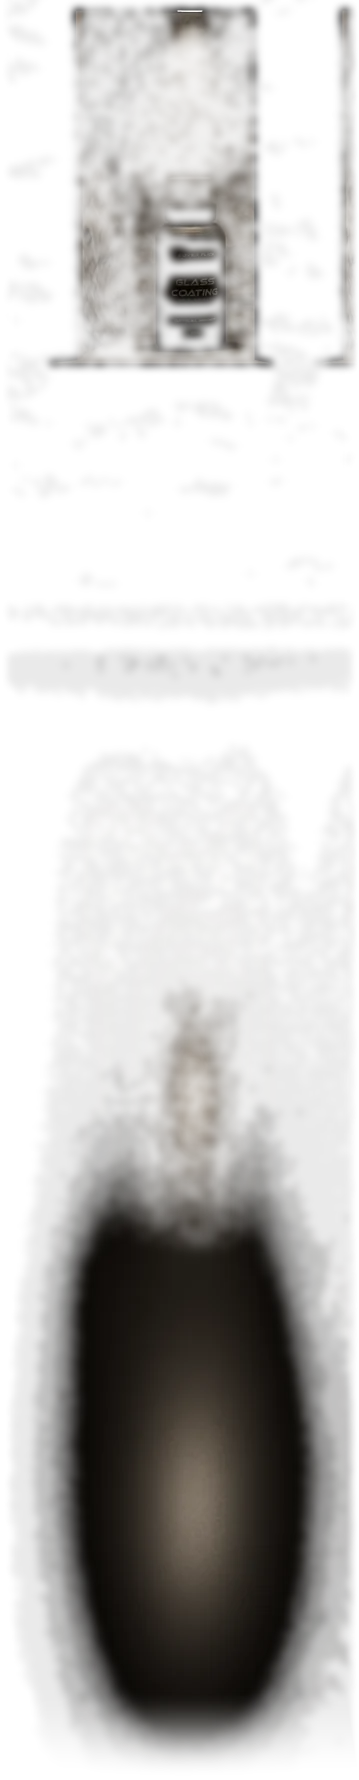
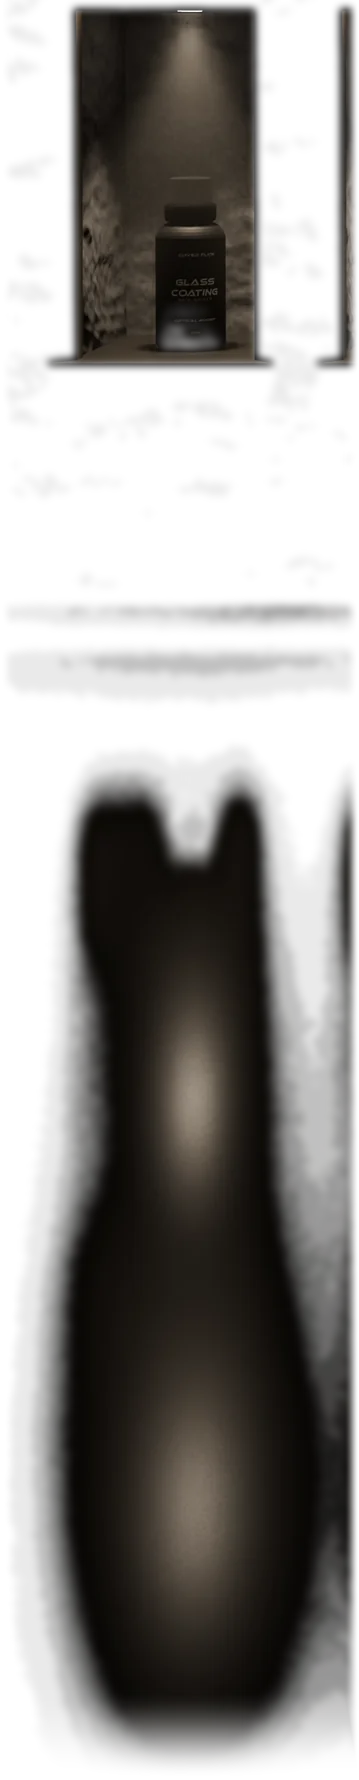
Add files via upload

diff --git a/showcase/index.html b/showcase/index.html
@@ -26,7 +26,7 @@
   #panel h1 { font-size: clamp(36px, 4.4vw, 64px); font-weight: 800; line-height: 1; letter-spacing: -.01em; }
   #panel h2 { margin-top: 14px; font-size: 13px; font-weight: 400; letter-spacing: .22em; color: #bdb5cb; text-transform: uppercase; }
   #panel .tagline { margin-top: 30px; font-size: 14px; font-weight: 600; letter-spacing: .12em; }
-  #panel p { margin-top: 14px; font: 400 14px/1.8 "Noto Sans KR", sans-serif; color: #d9d3e3; white-space: pre-line; }
+  #panel p { margin-top: 14px; font: 400 14px/1.8 "Noto Sans KR", sans-serif; color: #d9d3e3; white-space: pre-line; word-break: keep-all; }
   #panel .more { display: inline-flex; align-items: center; gap: 10px; margin-top: 26px; padding: 12px 26px; border-radius: 999px; border: 1px solid rgba(255,255,255,.18); background: rgba(255,255,255,.06); color: #f4f2f7; font: 500 13px "Noto Sans KR", sans-serif; text-decoration: none; letter-spacing: .04em; transition: background .25s, border-color .25s; }
   #panel .more:hover { background: rgba(179,140,255,.18); border-color: rgba(179,140,255,.6); }
   #panel .more span { transition: transform .25s; } #panel .more:hover span { transform: translateX(4px); }
@@ -47,7 +47,7 @@
     #shade { background: linear-gradient(180deg, rgba(0,0,0,0) 61%, rgba(0,0,0,.85) 70%, #000 80%); }   /* starts below the niche */
     #panel { left: 0; right: 0; top: auto; bottom: 0; width: auto; transform: translateY(24px); padding: 0 26px calc(30px + env(safe-area-inset-bottom)); }
     body.focused.arrived #panel { transform: translateY(0); }
-    #panel h1 { font-size: 38px; } #panel .tagline { margin-top: 16px; font-size: 13px; } #panel dl { display: none; } #panel p { font-size: 12.5px; line-height: 1.65; margin-top: 10px; } #panel .more { margin-top: 14px; padding: 9px 20px; font-size: 12px; } #panel h2 { margin-top: 8px; } #panel .line { margin-bottom: 8px; }
+    #panel h1 { font-size: 38px; } #panel .tagline { margin-top: 16px; font-size: 13px; } #panel dl { display: none; } #panel p { white-space: normal; font-size: 12.5px; line-height: 1.65; margin-top: 10px; } #panel .more { margin-top: 14px; padding: 9px 20px; font-size: 12px; } #panel h2 { margin-top: 8px; } #panel .line { margin-bottom: 8px; }
     #back { top: 16px; right: 16px; padding: 8px 14px; font-size: 12px; }
     #nav { left: 12px; right: 12px; bottom: auto; top: 30%; justify-content: space-between; }
   }
@@ -107,7 +107,7 @@
 <div id="nav"><button class="btn" id="prev" aria-label="이전 제품">‹</button><button class="btn" id="next" aria-label="다음 제품">›</button></div>
 <div id="hint">제품에 마우스를 올리거나 클릭해 보세요</div>
 <script>
-const A = {"pc": {"res": [5760, 3240], "base": "img/pc_base.webp", "prods": [{"key": "2X", "rect": [0.2265990674495697, 0.41502809524536133, 0.2839204967021942, 0.5680767297744751], "layers": [{"src": "img/pc_ref_2X.webp", "crop": [0.21458333333333332, 0.5873456790123457, 0.29583333333333334, 0.9996913580246913]}, {"src": "img/pc_hov_2X.webp", "crop": [0.21458333333333332, 0.39598765432098765, 0.29583333333333334, 0.5996913580246913]}, {"src": "img/pc_hi_2X.webp", "crop": [0.21458333333333332, 0.39580246913580247, 0.29583333333333334, 0.5874074074074074], "hi": 1}]}, {"key": "3X", "rect": [0.31279444694519043, 0.41502809524536133, 0.36574944853782654, 0.5680767297744751], "layers": [{"src": "img/pc_ref_3X.webp", "crop": [0.30069444444444443, 0.5873456790123457, 0.3776041666666667, 0.9996913580246913]}, {"src": "img/pc_hov_3X.webp", "crop": [0.30069444444444443, 0.39598765432098765, 0.3776041666666667, 0.5996913580246913]}, {"src": "img/pc_hi_3X.webp", "crop": [0.3007638888888889, 0.39580246913580247, 0.3776388888888889, 0.5874074074074074], "hi": 1}]}, {"key": "GlassCoating", "rect": [0.39898979663848877, 0.41502809524536133, 0.4475783407688141, 0.5680767297744751], "layers": [{"src": "img/pc_ref_GlassCoating.webp", "crop": [0.38697916666666665, 0.5873456790123457, 0.4595486111111111, 0.9996913580246913]}, {"src": "img/pc_hov_GlassCoating.webp", "crop": [0.38697916666666665, 0.39598765432098765, 0.4595486111111111, 0.5996913580246913]}, {"src": "img/pc_hi_GlassCoating.webp", "crop": [0.3869444444444444, 0.39580246913580247, 0.45958333333333334, 0.5874074074074074], "hi": 1}]}, {"key": "LeatherCoating", "rect": [0.4851851761341095, 0.41502809524536133, 0.5309764742851257, 0.5680767297744751], "layers": [{"src": "img/pc_ref_LeatherCoating.webp", "crop": [0.4730902777777778, 0.5873456790123457, 0.5428819444444445, 0.9996913580246913]}, {"src": "img/pc_hov_LeatherCoating.webp", "crop": [0.4730902777777778, 0.39598765432098765, 0.5428819444444445, 0.5996913580246913]}, {"src": "img/pc_hi_LeatherCoating.webp", "crop": [0.4731944444444444, 0.39580246913580247, 0.5429861111111111, 0.5874074074074074], "hi": 1}]}, {"key": "Glow", "rect": [0.5655302405357361, 0.2709733843803406, 0.6524820923805237, 0.5680767297744751], "layers": [{"src": "img/pc_ref_Glow.webp", "crop": [0.55, 0.5987654320987654, 0.66875, 1.0]}, {"src": "img/pc_hov_Glow.webp", "crop": [0.55, 0.2518518518518518, 0.66875, 0.6111111111111112]}]}, {"key": "Assemble", "rect": [0.6768079400062561, 0.2709733843803406, 0.7739279866218567, 0.5680767297744751], "layers": [{"src": "img/pc_ref_Assemble.webp", "crop": [0.6647569444444444, 0.5873456790123457, 0.7857638888888889, 0.9996913580246913]}, {"src": "img/pc_hov_Assemble.webp", "crop": [0.6647569444444444, 0.2518518518518518, 0.7857638888888889, 0.5996913580246913]}]}]}, "m": {"res": [3120, 6752], "base": "img/m_base.webp", "prods": [{"key": "2X", "rect": [0.06840715557336807, 0.345639705657959, 0.21518738567829132, 0.4541202187538147], "layers": [{"src": "img/m_ref_2X.webp", "crop": [0.023717948717948717, 0.4727488151658768, 0.25416666666666665, 1.0]}, {"src": "img/m_hov_2X.webp", "crop": [0.023717948717948717, 0.3335308056872038, 0.25416666666666665, 0.4786729857819905]}, {"src": "img/m_hi_2X.webp", "crop": [0.023974358974358973, 0.3334123222748815, 0.25435897435897437, 0.4728080568720379], "hi": 1}]}, {"key": "3X", "rect": [0.23961754143238068, 0.345639705657959, 0.3723253905773163, 0.4541202187538147], "layers": [{"src": "img/m_ref_3X.webp", "crop": [0.1967948717948718, 0.4727488151658768, 0.4112179487179487, 1.0]}, {"src": "img/m_hov_3X.webp", "crop": [0.1967948717948718, 0.3335308056872038, 0.4112179487179487, 0.4786729857819905]}, {"src": "img/m_hi_3X.webp", "crop": [0.1967948717948718, 0.3334123222748815, 0.4114102564102564, 0.4728080568720379], "hi": 1}]}, {"key": "GlassCoating", "rect": [0.06962719559669495, 0.4742547273635864, 0.21592649817466736, 0.5792432129383087], "layers": [{"src": "img/m_ref_GlassCoating.webp", "crop": [0.025, 0.5996741706161137, 0.2548076923076923, 0.9998518957345972]}, {"src": "img/m_hov_GlassCoating.webp", "crop": [0.025, 0.4622334123222749, 0.2548076923076923, 0.6055983412322274]}, {"src": "img/m_hi_GlassCoating.webp", "crop": [0.025256410256410258, 0.4622037914691943, 0.255, 0.5997037914691943], "hi": 1}]}, {"key": "LeatherCoating", "rect": [0.24035359919071198, 0.4742547273635864, 0.3726567029953003, 0.5792432129383087], "layers": [{"src": "img/m_ref_LeatherCoating.webp", "crop": [0.19743589743589743, 0.5996741706161137, 0.4115384615384615, 0.9998518957345972]}, {"src": "img/m_hov_LeatherCoating.webp", "crop": [0.19743589743589743, 0.4622334123222749, 0.4115384615384615, 0.6055983412322274]}, {"src": "img/m_hi_LeatherCoating.webp", "crop": [0.1976923076923077, 0.4622037914691943, 0.4117948717948718, 0.5997037914691943], "hi": 1}]}, {"key": "Glow", "rect": [0.4322735369205475, 0.3753848075866699, 0.6461465954780579, 0.5792432129383087], "layers": [{"src": "img/m_ref_Glow.webp", "crop": [0.39166666666666666, 0.5996741706161137, 0.6871794871794872, 0.9998518957345972]}, {"src": "img/m_hov_Glow.webp", "crop": [0.39166666666666666, 0.36329976303317535, 0.6871794871794872, 0.6055983412322274]}]}, {"key": "Assemble", "rect": [0.6886341571807861, 0.3753848075866699, 0.9313107132911682, 0.5792432129383087], "layers": [{"src": "img/m_ref_Assemble.webp", "crop": [0.65, 0.5996741706161137, 0.975, 0.9998518957345972]}, {"src": "img/m_hov_Assemble.webp", "crop": [0.65, 0.36329976303317535, 0.975, 0.6055983412322274]}]}]}};
+const A = {"pc": {"res": [5760, 3240], "base": "img/pc_base.webp", "prods": [{"key": "2X", "rect": [0.2265990674495697, 0.41502809524536133, 0.2839204967021942, 0.5680767297744751], "layers": [{"src": "img/pc_ref_2X.webp", "crop": [0.21458333333333332, 0.5873456790123457, 0.29583333333333334, 0.9996913580246913]}, {"src": "img/pc_hov_2X.webp", "crop": [0.21458333333333332, 0.39598765432098765, 0.29583333333333334, 0.5996913580246913]}, {"src": "img/pc_hi_2X.webp", "crop": [0.21458333333333332, 0.39580246913580247, 0.29583333333333334, 0.5874074074074074], "hi": 1}]}, {"key": "3X", "rect": [0.31279444694519043, 0.41502809524536133, 0.36574944853782654, 0.5680767297744751], "layers": [{"src": "img/pc_ref_3X.webp", "crop": [0.30069444444444443, 0.5873456790123457, 0.3776041666666667, 0.9996913580246913]}, {"src": "img/pc_hov_3X.webp", "crop": [0.30069444444444443, 0.39598765432098765, 0.3776041666666667, 0.5996913580246913]}, {"src": "img/pc_hi_3X.webp", "crop": [0.3007638888888889, 0.39580246913580247, 0.3776388888888889, 0.5874074074074074], "hi": 1}]}, {"key": "GlassCoating", "rect": [0.39898979663848877, 0.41502809524536133, 0.4475783407688141, 0.5680767297744751], "layers": [{"src": "img/pc_ref_GlassCoating.webp", "crop": [0.38697916666666665, 0.5873456790123457, 0.4595486111111111, 0.9996913580246913]}, {"src": "img/pc_hov_GlassCoating.webp", "crop": [0.38697916666666665, 0.39598765432098765, 0.4595486111111111, 0.5996913580246913]}, {"src": "img/pc_hi_GlassCoating.webp", "crop": [0.3869444444444444, 0.39580246913580247, 0.45958333333333334, 0.5874074074074074], "hi": 1}]}, {"key": "LeatherCoating", "rect": [0.4851851761341095, 0.41502809524536133, 0.5309764742851257, 0.5680767297744751], "layers": [{"src": "img/pc_ref_LeatherCoating.webp", "crop": [0.4730902777777778, 0.5873456790123457, 0.5428819444444445, 0.9996913580246913]}, {"src": "img/pc_hov_LeatherCoating.webp", "crop": [0.4730902777777778, 0.39598765432098765, 0.5428819444444445, 0.5996913580246913]}, {"src": "img/pc_hi_LeatherCoating.webp", "crop": [0.4731944444444444, 0.39580246913580247, 0.5429861111111111, 0.5874074074074074], "hi": 1}]}, {"key": "Glow", "rect": [0.5655302405357361, 0.2709733843803406, 0.6524820923805237, 0.5680767297744751], "layers": [{"src": "img/pc_ref_Glow.webp", "crop": [0.55, 0.5987654320987654, 0.66875, 1.0]}, {"src": "img/pc_hov_Glow.webp", "crop": [0.55, 0.2518518518518518, 0.66875, 0.6111111111111112]}]}, {"key": "Assemble", "rect": [0.6768079400062561, 0.2709733843803406, 0.7739279866218567, 0.5680767297744751], "layers": [{"src": "img/pc_ref_Assemble.webp", "crop": [0.6647569444444444, 0.5873456790123457, 0.7857638888888889, 0.9996913580246913]}, {"src": "img/pc_hov_Assemble.webp", "crop": [0.6647569444444444, 0.2518518518518518, 0.7857638888888889, 0.5996913580246913]}]}], "dim": "img/pc_dim.webp"}, "m": {"res": [3120, 6752], "base": "img/m_base.webp", "prods": [{"key": "2X", "rect": [0.06840715557336807, 0.345639705657959, 0.21518738567829132, 0.4541202187538147], "layers": [{"src": "img/m_ref_2X.webp", "crop": [0.023717948717948717, 0.4727488151658768, 0.25416666666666665, 1.0]}, {"src": "img/m_hov_2X.webp", "crop": [0.023717948717948717, 0.3335308056872038, 0.25416666666666665, 0.4786729857819905]}, {"src": "img/m_hi_2X.webp", "crop": [0.023974358974358973, 0.3334123222748815, 0.25435897435897437, 0.4728080568720379], "hi": 1}]}, {"key": "3X", "rect": [0.23961754143238068, 0.345639705657959, 0.3723253905773163, 0.4541202187538147], "layers": [{"src": "img/m_ref_3X.webp", "crop": [0.1967948717948718, 0.4727488151658768, 0.4112179487179487, 1.0]}, {"src": "img/m_hov_3X.webp", "crop": [0.1967948717948718, 0.3335308056872038, 0.4112179487179487, 0.4786729857819905]}, {"src": "img/m_hi_3X.webp", "crop": [0.1967948717948718, 0.3334123222748815, 0.4114102564102564, 0.4728080568720379], "hi": 1}]}, {"key": "GlassCoating", "rect": [0.06962719559669495, 0.4742547273635864, 0.21592649817466736, 0.5792432129383087], "layers": [{"src": "img/m_ref_GlassCoating.webp", "crop": [0.025, 0.5996741706161137, 0.2548076923076923, 0.9998518957345972]}, {"src": "img/m_hov_GlassCoating.webp", "crop": [0.025, 0.4622334123222749, 0.2548076923076923, 0.6055983412322274]}, {"src": "img/m_hi_GlassCoating.webp", "crop": [0.025256410256410258, 0.4622037914691943, 0.255, 0.5997037914691943], "hi": 1}]}, {"key": "LeatherCoating", "rect": [0.24035359919071198, 0.4742547273635864, 0.3726567029953003, 0.5792432129383087], "layers": [{"src": "img/m_ref_LeatherCoating.webp", "crop": [0.19743589743589743, 0.5996741706161137, 0.4115384615384615, 0.9998518957345972]}, {"src": "img/m_hov_LeatherCoating.webp", "crop": [0.19743589743589743, 0.4622334123222749, 0.4115384615384615, 0.6055983412322274]}, {"src": "img/m_hi_LeatherCoating.webp", "crop": [0.1976923076923077, 0.4622037914691943, 0.4117948717948718, 0.5997037914691943], "hi": 1}]}, {"key": "Glow", "rect": [0.4322735369205475, 0.3753848075866699, 0.6461465954780579, 0.5792432129383087], "layers": [{"src": "img/m_ref_Glow.webp", "crop": [0.39166666666666666, 0.5996741706161137, 0.6871794871794872, 0.9998518957345972]}, {"src": "img/m_hov_Glow.webp", "crop": [0.39166666666666666, 0.36329976303317535, 0.6871794871794872, 0.6055983412322274]}]}, {"key": "Assemble", "rect": [0.6886341571807861, 0.3753848075866699, 0.9313107132911682, 0.5792432129383087], "layers": [{"src": "img/m_ref_Assemble.webp", "crop": [0.65, 0.5996741706161137, 0.975, 0.9998518957345972]}, {"src": "img/m_hov_Assemble.webp", "crop": [0.65, 0.36329976303317535, 0.975, 0.6055983412322274]}]}], "dim": "img/m_dim.webp"}};
 const INFO = {
   '2X': { line: 'CERAMIC COATING', name: '2X', sub: 'Ceramic Coating', tag: 'SUPER HYBRID', vol: '30mL', type: '세라믹 코팅제' },
   '3X': { line: 'CERAMIC COATING', name: 'NANO 3X', sub: 'Ceramic Coating', tag: 'NANO SUPER HYBRID', vol: '30mL', type: '세라믹 코팅제' },
@@ -122,7 +122,8 @@ const cv = $('cv'), ctx = cv.getContext('2d');
 const isMobile = () => innerWidth <= 760 || innerHeight > innerWidth * 1.15;
 
 let S = null;                                  // current scene set (pc or m)
-const lv = { pc: null, m: null };              // mip levels per scene
+const lv = { pc: null, m: null }, lvd = { pc: null, m: null };   // base / dimmed base (all downlights at half)
+let dimA = 0;              // mip levels per scene
 function load(src) { return new Promise(r => { const i = new Image(); i.onload = () => r(i); i.src = src; }); }
 async function mips(img, minW) {
   try { if (img.decode) await img.decode(); } catch (e) {}
@@ -150,7 +151,7 @@ function focusView(i) {
   const rw = (r[2] - r[0]) * W, rh = (r[3] - r[1]) * H, rcx = (r[0] + r[2]) / 2 * W, rcy = (r[1] + r[3]) / 2 * H;
   let s, sx, sy;
   if (isMobile()) {   // niche fills the space above the text panel, whatever the phone height / text length
-    const top = 66, ph = $('panel').offsetHeight || innerHeight * .4, avail = Math.max(160, innerHeight - ph - top - 14);
+    const top = 66, ph = panelHeight(S.prods[i]) || innerHeight * .4, avail = Math.max(160, innerHeight - ph - top - 14);
     s = Math.min(avail / rh, innerWidth * .78 / rw); sx = innerWidth / 2; sy = top + avail / 2;
     const pt = (innerHeight - ph) / innerHeight * 100;
     $('shade').style.background = `linear-gradient(180deg, rgba(0,0,0,0) ${pt - 6}%, rgba(0,0,0,.85) ${pt + 3}%, #000 ${pt + 12}%)`;
@@ -174,7 +175,13 @@ function draw() {
   if (cv.width !== Math.round(W * dpr) || cv.height !== Math.round(H * dpr)) { cv.width = Math.round(W * dpr); cv.height = Math.round(H * dpr); }
   ctx.setTransform(dpr, 0, 0, dpr, 0, 0); ctx.fillStyle = '#000'; ctx.fillRect(0, 0, W, H);
   ctx.imageSmoothingEnabled = true; ctx.imageSmoothingQuality = 'high';
-  const levels = lv[S.id], k0 = levels[0].width / S.res[0], need = view.s * dpr / k0;   // screen px per base px
+  drawBase(lv[S.id], 1, dpr, W, H);
+  if (dimA > .003 && lvd[S.id]) drawBase(lvd[S.id], dimA, dpr, W, H);   // other niches at half light while a product is selected
+  const x0 = view.cx - W / 2 / view.s, y0 = view.cy - H / 2 / view.s;
+  drawRest(dpr, W, H, x0, y0);
+}
+function drawBase(levels, a, dpr, W, H) {
+  const k0 = levels[0].width / S.res[0], need = view.s * dpr / k0;   // screen px per base px
   let L = 0; while (L + 1 < levels.length && need <= 1 / Math.pow(2, L + 1) * 1.05) L++;
   const img = levels[L], f = img.width / S.res[0];
   // visible window in full-res coords
@@ -182,8 +189,12 @@ function draw() {
   { // Safari draws nothing when the source rectangle leaves the image, so clip it to the image first
     const sx = x0 * f, sy = y0 * f, sw = W / view.s * f, sh = H / view.s * f;
     const ax = Math.max(0, sx), ay = Math.max(0, sy), bx = Math.min(img.width, sx + sw), by = Math.min(img.height, sy + sh);
+    ctx.globalAlpha = a;
     if (bx > ax && by > ay) ctx.drawImage(img, ax, ay, bx - ax, by - ay, (ax - sx) / sw * W, (ay - sy) / sh * H, (bx - ax) / sw * W, (by - ay) / sh * H);
+    ctx.globalAlpha = 1;
   }
+}
+function drawRest(dpr, W, H, x0, y0) {
   // hovered / selected niche: same scene re-rendered with that niche's downlight brighter (wall, product, floor reflection together)
   const put = (levels, r, a) => {
     const w = (r[2] - r[0]) * S.res[0] * view.s, h = (r[3] - r[1]) * S.res[1] * view.s;
@@ -230,6 +241,7 @@ function tick(now) {
     dirty = true;
   }
   const dt = Math.min(.1, (now - (tick.last || now)) / 1000) / SLOW; tick.last = now;
+  { const g = focus >= 0 ? 1 : 0; if (Math.abs(g - dimA) > .002) { dimA += (g - dimA) * (1 - Math.exp(-dt / .3)); dirty = true; } else dimA = g; }
   for (const p of S.prods) {
     if (anim && anim.swap && anim.swap.includes(p.key)) continue;
     const g = alphaGoal[p.key] || 0, c = alpha[p.key] || 0;
@@ -249,14 +261,22 @@ let closing = -1;
 function setGoals() {
   S.prods.forEach((p, i) => alphaGoal[p.key] = (focus >= 0 ? i === focus : (i === hover || i === closing)) ? HOVER_A : 0);
 }
-function fill(p) {
-  const d = INFO[p.key];
-  $('p-line').textContent = d.line; $('p-name').textContent = d.name; $('p-sub').textContent = d.sub;
-  $('p-tag').textContent = d.tag; $('p-desc').textContent = COPY[p.key].desc; $('p-more').href = COPY[p.key].url;
-  $('p-spec').innerHTML = `<dt>용량</dt><dd>${d.vol}</dd><dt>구분</dt><dd>${d.type}</dd>`;
+function fill(p, root) {
+  const d = INFO[p.key], q = id => (root || document).querySelector('#' + id);
+  q('p-line').textContent = d.line; q('p-name').textContent = d.name; q('p-sub').textContent = d.sub;
+  q('p-tag').textContent = d.tag; q('p-desc').textContent = COPY[p.key].desc; q('p-more').href = COPY[p.key].url;
+  q('p-spec').innerHTML = `<dt>용량</dt><dd>${d.vol}</dd><dt>구분</dt><dd>${d.type}</dd>`;
+}
+function panelHeight(p) {   // height the text panel will have for product p (measured on a hidden copy)
+  const c = $('panel').cloneNode(true); fill(p, c);
+  c.style.visibility = 'hidden'; c.style.transition = 'none'; c.style.opacity = '0'; document.body.appendChild(c);
+  const h = c.offsetHeight; c.remove(); return h;
 }
 function open(i) {
-  const was = focus; focus = i; hover = -1; fill(S.prods[i]);
+  const was = focus; focus = i; hover = -1;
+  clearTimeout(open.t);
+  if (was >= 0 && was !== i) open.t = setTimeout(() => { if (focus === i) fill(S.prods[i]); }, 520 * SLOW);   // after the old text has faded out
+  else fill(S.prods[i]);
   document.body.classList.add('focused'); document.body.classList.remove('arrived');
   setGoals();
   if (was >= 0 && was !== i) go(focusView(i), 1100, null, 0, [S.prods[was].key, S.prods[i].key]);
@@ -292,6 +312,8 @@ async function start(id) {
   if (!A[id]) id = 'pc';
   const a = A[id];
   if (!lv[id]) lv[id] = await mips(await load(a.base), 900);
+  if (a.dim && !lvd[id]) lvd[id] = await mips(await load(a.dim), 900);
+  try { if (document.fonts && document.fonts.ready) await document.fonts.ready; } catch (e) {}
   document.querySelectorAll('.tag').forEach(t => t.remove());
   S = { id, res: a.res, prods: a.prods.map(p => ({ ...p })) };
   await Promise.all(S.prods.map(async p => { p.L = await Promise.all(p.layers.map(async l => ({ crop: l.crop, hi: l.hi, img: await mips(await load(l.src), 160) }))); }));
